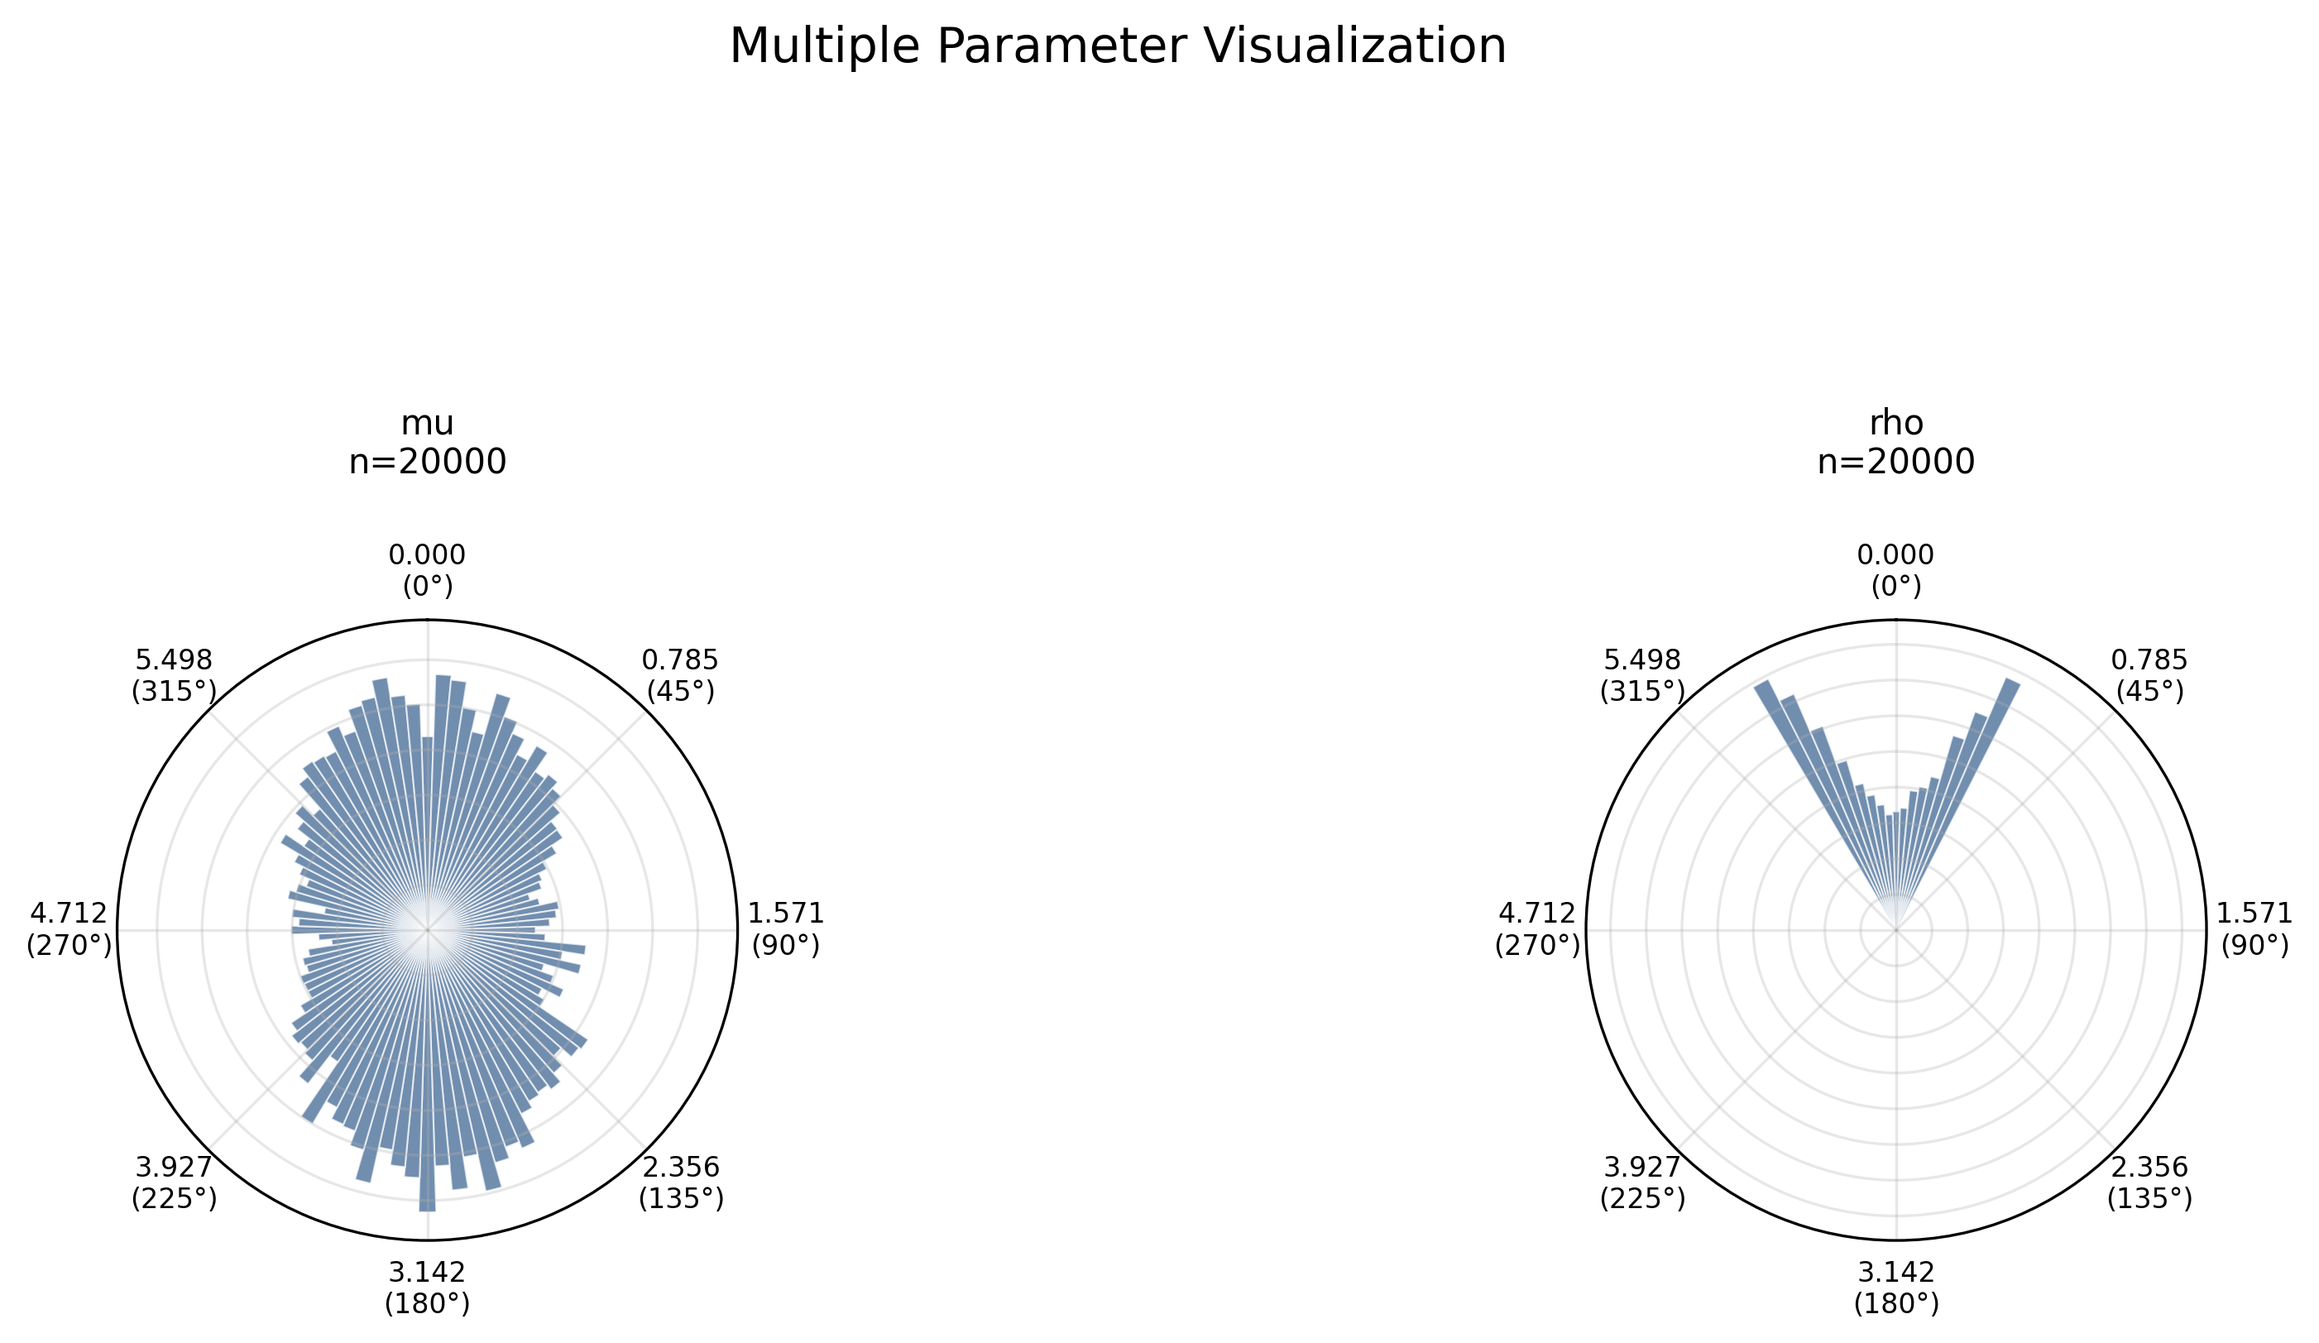
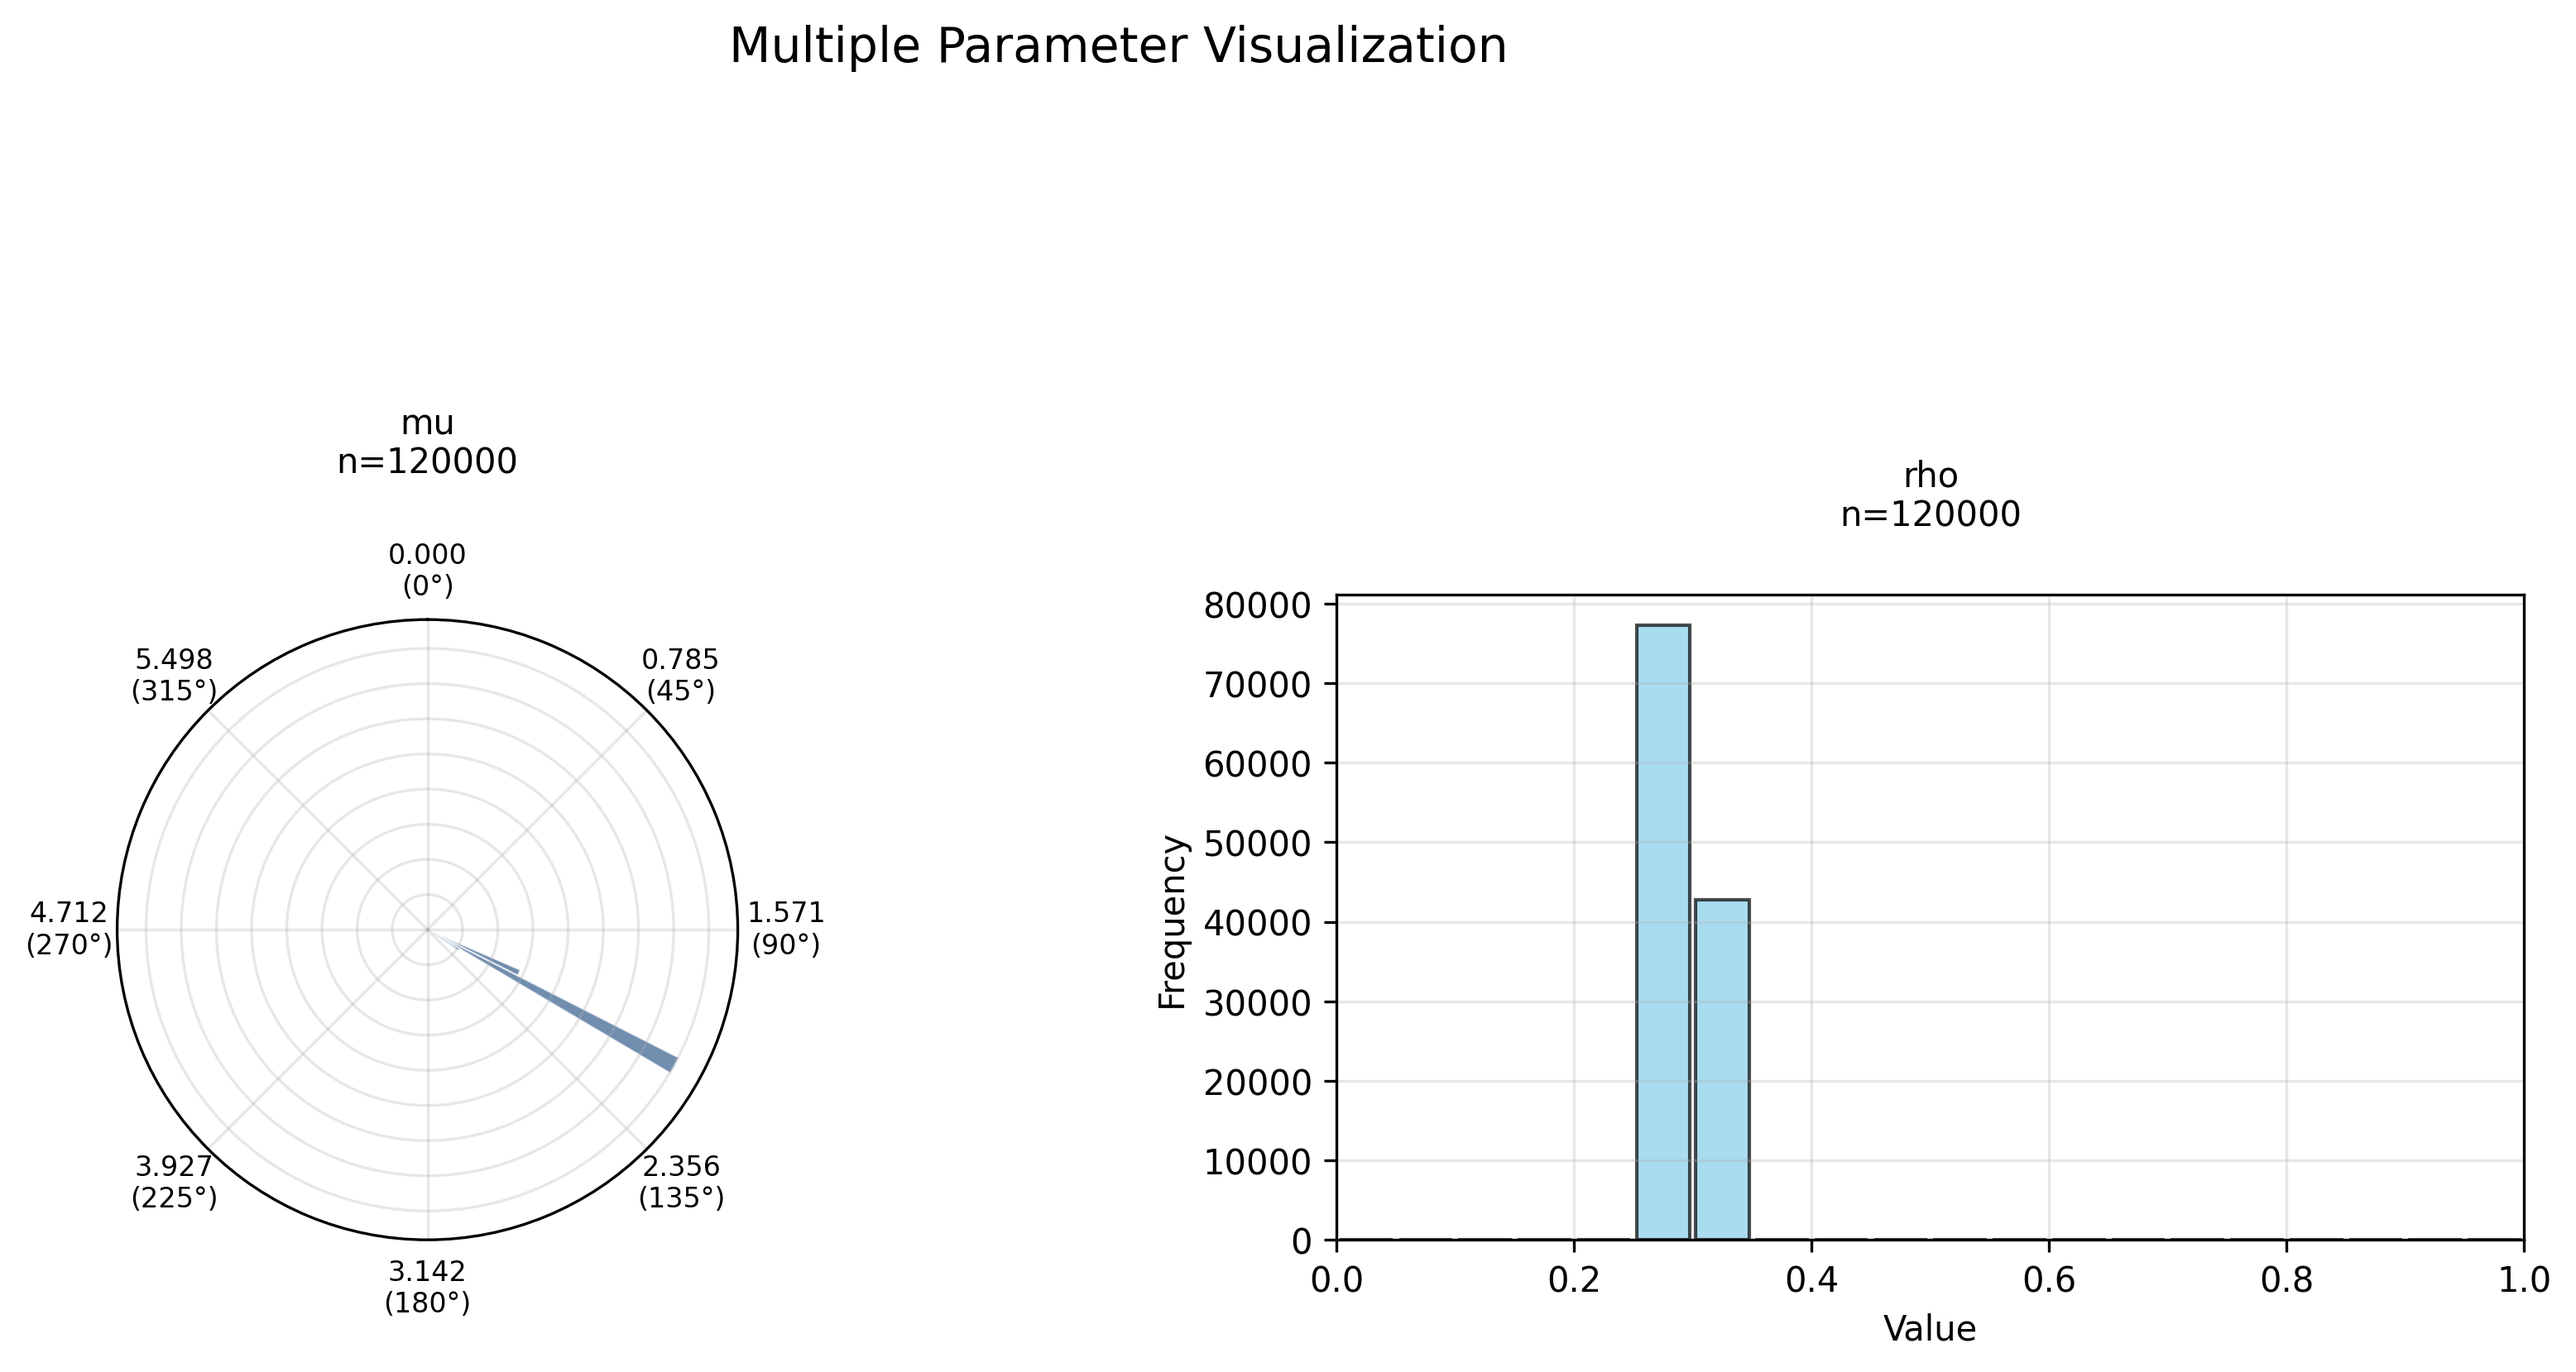
Add cardioid and wrapped cauchy distributions
Fix the Cardioid distribution formula in the Stan model by using its mathematical redution
Add the Wrapped Cauchy distribution in the Stan model

diff --git a/stan_circular_inference/src/stan_circular_inference/examples/test_cardioid.py b/stan_circular_inference/src/stan_circular_inference/examples/test_cardioid.py
@@ -1,0 +1,49 @@
+from pycircstat2.distributions import cardioid
+import matplotlib.pyplot as plt
+import numpy as np
+
+size = 5000
+mu, rho = np.pi/4, 0.3
+x = cardioid.rvs(size=size, mu=mu, rho=rho)
+
+from stan_circular_inference.factories.cardioid_factory import Cardioid
+from stan_circular_inference.factories.distributions_factory import Normal, Uniform, Exponential
+from stan_circular_inference.service import BayesianInferenceService
+
+mu = Uniform(0, 2*np.pi)
+rho = Normal(0.25, 0.25)
+
+model1 = Cardioid(mu, rho)
+service = BayesianInferenceService(model1)
+
+data = {
+    'N': len(x),
+    'values': x
+}
+
+service.circular_graphic(x, min_val=0, max_val=2*np.pi)
+
+# aumentar # de samples
+posterior = service.build_model(data)
+fit = service.get_samples(posterior, size*6)
+values = service.get_values(fit, parameters=['mu', 'rho'])
+
+service.get_statistics(fit)
+
+service.multiple_graphics(values, param_names=['mu', 'rho'], min_val=0, max_val=2*np.pi, parameters_type=[True, False])
+
+mean_values = np.mean(x)
+mean_samples_mu = np.mean(values['mu'])
+mean_samples_rho = np.mean(values['rho'])
+
+print(mean_values)
+print(mean_samples_mu)
+print(mean_samples_rho)
+
+# service.match_points_to_distributions(samples, real_values, dist1, min_val=0.1, max_val=0.3)
+
+# real_values = [0] * size
+# plt.plot(t, cardioid.pdf(t, mu, rho))
+# plt.plot(t, cardioid.cdf(t, mu, rho))
+# plt.hist(x, bins=50, normed=True)
+# plt.show()

diff --git a/stan_circular_inference/src/stan_circular_inference/service/bayesian_inference.py b/stan_circular_inference/src/stan_circular_inference/service/bayesian_inference.py
@@ -245,8 +245,6 @@ class BayesianInferenceService:
     """
     Builds a circular graph based on the `interest_parameter_values` parameter
 
-    TODO fazer para vários parâmetros e juntar(?) no mesmo gráfico
-
     Parameters
     - `interest_parameter_values` (array): the values from the chains
     - `n_intervals` (int): the number of intervals desired to equally split the values between the minimum value and maximum value
@@ -380,8 +378,8 @@ class BayesianInferenceService:
     }
     
     # Calculate per-class accuracy
-    accuracy_dist0 = confusion_matrix['true_0_pred_0'] / (confusion_matrix['true_0_pred_0'] + confusion_matrix['true_0_pred_1']) * 100 if (confusion_matrix['true_0_pred_0'] + confusion_matrix['true_0_pred_1']) > 0 else 0
-    accuracy_dist1 = confusion_matrix['true_1_pred_1'] / (confusion_matrix['true_1_pred_1'] + confusion_matrix['true_1_pred_0']) * 100 if (confusion_matrix['true_1_pred_1'] + confusion_matrix['true_1_pred_0']) > 0 else 0
+    accuracy_dist0 = confusion_matrix['TP'] / (confusion_matrix['TP'] + confusion_matrix['FP']) * 100 if (confusion_matrix['TP'] + confusion_matrix['FP']) > 0 else 0
+    accuracy_dist1 = confusion_matrix['TN'] / (confusion_matrix['TN'] + confusion_matrix['FN']) * 100 if (confusion_matrix['TN'] + confusion_matrix['FN']) > 0 else 0
 
     return {
       'accuracy': accuracy, 

diff --git a/stan_circular_inference/src/stan_circular_inference/factories/wrapped_cauchy_factory.py b/stan_circular_inference/src/stan_circular_inference/factories/wrapped_cauchy_factory.py
@@ -2,9 +2,9 @@ from stan_circular_inference.factories.model_factory import ProbabilisticModel
 from stan_circular_inference.factories.parameters_factory import MeanParameter, VarianceParameter
 from typing import Dict, Any
 
-class Cardioid(ProbabilisticModel):
+class WrappedCauchy(ProbabilisticModel):
     def __init__(self, mu: MeanParameter, rho: VarianceParameter):
-        super().__init__("Cardioid")
+        super().__init__("WrappedCauchy")
         self.mu = mu
         self.rho = rho
     
@@ -16,8 +16,8 @@ class Cardioid(ProbabilisticModel):
             }}
 
             parameters {{
-                real<lower=0, upper=2*pi()> mu;
-                real<lower=0, upper=0.5> rho;
+                real<lower=-pi(), upper=pi()> mu;
+                real<lower=0, upper=1> rho;
             }}
 
             model {{
@@ -25,7 +25,7 @@ class Cardioid(ProbabilisticModel):
                 rho ~ {self.rho.get_code()};
                 
                 for (n in 1:N){{
-                    target += -log(2*pi()) + log1p(2*rho*cos(values[n] - mu));
+                    target += log((1.0/(2*pi())) * ((1 - square(rho)) / (1 + square(rho) - 2*rho*cos(values[n] - mu))));
                 }}
             }}
             """

diff --git a/stan_circular_inference/src/stan_circular_inference/examples/test_wrapped_cauchy.py b/stan_circular_inference/src/stan_circular_inference/examples/test_wrapped_cauchy.py
@@ -1,0 +1,41 @@
+from pycircstat2.distributions import wrapcauchy
+import matplotlib.pyplot as plt
+import numpy as np
+
+size = 5000
+mu, rho = -np.pi/2, 0.3
+x = wrapcauchy.rvs(size=size, mu=mu, rho=rho)
+
+from stan_circular_inference.factories.wrapped_cauchy_factory import WrappedCauchy
+from stan_circular_inference.factories.distributions_factory import Normal, Uniform, Exponential
+from stan_circular_inference.service import BayesianInferenceService
+
+mu = Uniform(0, 2*np.pi)
+rho = Normal(0.5, 0.5)
+
+model1 = WrappedCauchy(mu, rho)
+service = BayesianInferenceService(model1)
+
+data = {
+    'N': len(x),
+    'values': x
+}
+
+service.circular_graphic(x, min_val=0, max_val=2*np.pi)
+
+# aumentar # de samples
+posterior = service.build_model(data)
+fit = service.get_samples(posterior, size*6)
+values = service.get_values(fit, parameters=['mu', 'rho'])
+
+service.get_statistics(fit)
+
+service.multiple_graphics(values, param_names=['mu', 'rho'], min_val=0, max_val=2*np.pi, parameters_type=[True, False])
+
+mean_values = np.mean(x)
+mean_samples_mu = np.mean(values['mu'])
+mean_samples_rho = np.mean(values['rho'])
+
+print(mean_values)
+print(mean_samples_mu)
+print(mean_samples_rho)

diff --git a/stan_circular_inference/src/stan_circular_inference/examples/test_aux_functions.py b/stan_circular_inference/src/stan_circular_inference/examples/test_aux_functions.py
@@ -9,11 +9,13 @@ import time
 df = pd.read_csv('datasets/wind_dataset.csv')
 
 mu = Uniform(0, 2*np.pi)
-rho = Uniform(-0.5, 0.5)
+rho = Uniform(-0.1, 0.1)
 
 model1 = Cardioid(mu, rho)
 
 values = np.array(df['wind_dir'], dtype='float')
+
+test_values = [-np.pi/4, np.pi/4]
 
 test_data = {
         "N": 2,
@@ -33,6 +35,8 @@ interest_parameter_values = service.get_pystan_statistics(data=test_data, parame
 #interest_parameter_values = service.get_pystan_statistics(data=model1_data, parameters=['mu', 'kappa'], sample_amount=1000)
 
 print("--- %s seconds ---" % (time.time() - start_time))
+
+service.match_points_to_distributions(test_values, test_values, interest_parameter_values, min_val=0, max_val=2*np.pi)
 
 service.circular_graphic(interest_parameter_values['mu'], min_val=0, max_val=2*np.pi)
 
